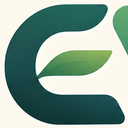
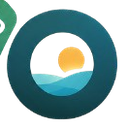
Update branding assets and refine habit journey components
Replit-Commit-Author: Agent

diff --git a/artifacts/habit-journey/src/pages/public.tsx b/artifacts/habit-journey/src/pages/public.tsx
@@ -3,7 +3,7 @@ import { ArrowLeft, Check, Coins, Map, Sparkles, Heart, ArrowUpLeft } from 'luci
 
 export function Landing() {
   return <div className="min-h-[100dvh] bg-[#f7f1e5] overflow-hidden">
-    <header className="max-w-[1240px] mx-auto px-6 md:px-10 h-20 flex items-center justify-between"><Link href="/" aria-label="رحلة العادة — الرئيسية" className="flex items-center gap-3 text-[#204a40] font-black text-xl" style={{fontFamily:'Cairo'}}><img src={`${import.meta.env.BASE_URL}evo-logo.png`} className="w-24 h-14 object-contain rounded-lg shrink-0" alt="EVO — Every Day, Evolve."/><span className="hidden sm:inline">رحلة العادة</span></Link><div className="flex items-center gap-2"><Link href="/sign-in" className="btn btn-ghost">دخول</Link><Link href="/sign-up" className="btn !py-2.5">ابدأ الرحلة <ArrowLeft size={16}/></Link></div></header>
+    <header className="max-w-[1240px] mx-auto px-6 md:px-10 h-20 flex items-center justify-between"><Link href="/" aria-label="EVO — الرئيسية" className="flex items-center gap-3 text-[#204a40] font-black text-xl" style={{fontFamily:'Cairo'}}><img src={`${import.meta.env.BASE_URL}evo-logo.png`} className="w-24 h-14 object-contain shrink-0" alt="EVO"/><span className="hidden sm:inline">EVO</span></Link><div className="flex items-center gap-2"><Link href="/sign-in" className="btn btn-ghost">دخول</Link><Link href="/sign-up" className="btn !py-2.5">ابدأ الرحلة <ArrowLeft size={16}/></Link></div></header>
     <section className="max-w-[1240px] mx-auto px-6 md:px-10 pt-14 md:pt-20 pb-20 grid lg:grid-cols-[.9fr_1.1fr] gap-12 items-center">
       <div className="page-enter relative z-10"><span className="eyebrow inline-flex items-center gap-2 mb-7"><span className="w-6 h-px bg-[#bf7857]"/> مساحتك الصغيرة للتغيير الكبير</span><h1 className="font-black text-[52px] md:text-[76px] leading-[1.23] tracking-tight max-w-[650px]">ليست قائمة مهام.<br/><span className="text-[#ce7855]">إنها رحلتك.</span></h1><p className="text-[#657b6e] text-lg md:text-xl leading-[2] max-w-[500px] mt-6 mb-9">كل عادة تزرعها، وكل يوم تحاول فيه، يترك أثرًا على الطريق. ابنِ حياة تشبهك خطوة بخطوة.</p><div className="flex flex-wrap gap-3"><Link href="/sign-up" className="btn !px-7 !py-4">ابدأ رحلتك الآن <ArrowLeft size={18}/></Link><a href="#كيف-تعمل" className="btn btn-light !px-7 !py-4">اكتشف كيف تعمل</a></div><p className="text-sm muted mt-7">مساحة خاصة لك. بلا مقارنة، بلا ضغط.</p></div>
       <div className="relative h-[470px] md:h-[570px] rounded-[32px] overflow-hidden bg-[#d5dec7] shadow-[0_30px_80px_#254f3d20]"><img src={`${import.meta.env.BASE_URL}journey-landscape.png`} alt="رسم لطريق متعرج بين الجبال" className="w-full h-full object-cover"/><div className="absolute top-8 right-8 bg-[#fff9e9ed] backdrop-blur rounded-2xl p-4 shadow-lg flex items-center gap-3"><span className="w-10 h-10 rounded-full bg-[#e9ddbc] flex items-center justify-center"><Map size={20}/></span><div><strong className="block text-sm">طريقك يبدأ هنا</strong><small className="muted">كل خطوة تُحتسب</small></div></div><div className="absolute bottom-8 left-8 bg-[#204b40] text-[#fff9e9] rounded-2xl px-5 py-4 flex items-center gap-3 shadow-xl"><Coins className="text-[#f2c77f]"/><div><b className="block">تقدّم يكافئك</b><small className="text-[#c5d9cb]">بالطريقة التي تختارها أنت</small></div></div></div>
@@ -12,6 +12,6 @@ export function Landing() {
     <section className="py-24 max-w-[1160px] mx-auto px-6 md:px-10 grid md:grid-cols-2 gap-14 items-center"><div className="paper rounded-[30px] p-8 md:p-12 rotate-[-2deg]"><div className="text-xs font-bold text-[#b47455] mb-6">رسالة من مدرّبك</div><Sparkles size={27} className="text-[#d39064] mb-6"/><p className="text-2xl md:text-3xl leading-[1.8] font-semibold">«الخطوة الصغيرة التي كررتها اليوم أهم من القفزة الكبيرة التي انتظرتها.»</p><div className="border-t border-[#e6dfcf] pt-5 mt-7 text-sm muted">صوت يشبه ما تحتاجه، لا تنبيه آخر تتجاهله.</div></div><div><div className="eyebrow">رفيق يعرف أسلوبك</div><h2 className="text-4xl md:text-5xl font-black leading-[1.5] mt-4">تشجيع يفهمك.<br/>لا كلامًا محفوظًا.</h2><p className="muted text-lg leading-[2] mt-5">اختر مدرّبًا لطيفًا، أو صريحًا يدفعك للأمام، أو محبًا للأرقام. يتبدّل صوته مع اختيارك وتقدّمك.</p></div></section>
     <section className="bg-[#e8dfca] py-24"><div className="max-w-[1160px] mx-auto px-6 md:px-10 grid md:grid-cols-2 gap-12 items-center"><div><div className="eyebrow">أكثر من سجل يومي</div><h2 className="text-4xl md:text-5xl font-black leading-[1.5] mt-4">احتفظ بلحظات<br/>الطريق أيضًا.</h2><p className="muted text-lg leading-[2] mt-5">الوقت الذي منحته لنفسك، الذكريات التي صنعتها، والأشخاص الذين يرافقونك. كل ذلك له مكان هنا.</p></div><div className="grid grid-cols-2 gap-4"><div className="paper rounded-[24px] p-6 mt-10"><Heart className="text-[#d07a58] mb-12"/><h3 className="font-bold text-xl">ذكرياتك</h3><p className="muted text-sm mt-2">صورة وكلمة تحفظان اللحظة.</p></div><div className="paper rounded-[24px] p-6"><ArrowUpLeft className="text-[#d07a58] mb-12"/><h3 className="font-bold text-xl">وقتُك</h3><p className="muted text-sm mt-2">اعرف أين تنمو ساعاتك.</p></div></div></div></section>
     <section className="text-center py-28 px-6"><span className="eyebrow">لا تنتظر اللحظة المثالية</span><h2 className="text-4xl md:text-6xl font-black mt-5 mb-5">ابدأ من حيث أنت.</h2><p className="muted text-lg mb-9">أول خطوة لا تحتاج إلا قرارًا واحدًا.</p><Link href="/sign-up" className="btn !px-9 !py-4">اصنع بداية جديدة <ArrowLeft size={18}/></Link></section>
-    <footer className="border-t border-[#ded6c5] max-w-[1160px] mx-auto px-6 py-8 flex justify-between text-sm muted"><span>رحلة العادة</span><span>كل يوم بداية ممكنة.</span></footer>
+    <footer className="border-t border-[#ded6c5] max-w-[1160px] mx-auto px-6 py-8 flex justify-between text-sm muted"><span>EVO</span><span>كل يوم بداية ممكنة.</span></footer>
   </div>;
 }

diff --git a/artifacts/habit-journey/src/components/journey-ui.tsx b/artifacts/habit-journey/src/components/journey-ui.tsx
@@ -59,14 +59,14 @@ export function Shell({user,children}: {user:User,children:ReactNode}) {
   const secondary = nav.filter(item => !mobilePrimary.has(item.href));
   return <div className="min-h-[100dvh] md:flex">
     <aside data-testid="app-sidebar" className={`hidden md:flex ${mapFirst ? 'w-[76px] px-2 py-4' : 'w-[245px] px-4 py-7'} shrink-0 bg-[#1e493f] text-[#f6ead2] min-h-[100dvh] sticky top-0 h-[100dvh] flex-col`}>
-      <Link href="/home" aria-label={mapFirst ? 'رحلة العادة — الرئيسية' : undefined} className={`flex items-center gap-3 ${mapFirst ? 'justify-center mb-5' : 'flex-col justify-center mb-6'}`}><img src={`${import.meta.env.BASE_URL}evo-logo.png`} className={`${mapFirst ? 'w-14 h-9' : 'w-24 h-14'} object-contain rounded-lg shrink-0`} alt="EVO — Every Day, Evolve."/><span className={`${mapFirst ? 'sr-only' : ''} font-black text-xl`} style={{fontFamily:'Cairo'}}>رحلة العادة</span></Link>
+      <Link href="/home" aria-label={mapFirst ? 'EVO — الرئيسية' : undefined} className={`flex items-center gap-3 ${mapFirst ? 'justify-center mb-5' : 'flex-col justify-center mb-6'}`}><img src={`${import.meta.env.BASE_URL}evo-logo.png`} className={`${mapFirst ? 'w-14 h-9' : 'w-24 h-14'} object-contain shrink-0`} alt="EVO"/><span className={`${mapFirst ? 'sr-only' : ''} font-black text-xl`} style={{fontFamily:'Cairo'}}>EVO</span></Link>
       {!mapFirst && <div className="px-4 text-[#a9c8b6] text-xs font-bold mb-3">مساحتك الخاصة</div>}
       <nav aria-label="التنقل الرئيسي" className="flex-1 min-h-0 space-y-1 overflow-y-auto">{nav.map(({href,label,icon:Icon})=><Link key={href} href={href} title={mapFirst ? label : undefined} aria-current={navActive(location,href)?'page':undefined} className={`flex items-center gap-3 ${mapFirst ? 'justify-center px-2' : 'px-4'} py-3 min-h-11 rounded-xl transition-all focus-visible:outline-2 focus-visible:outline-offset-2 ${navActive(location,href) ? 'bg-[#e2ad73] text-[#1d463b] font-bold shadow-sm' : 'text-[#d7e4d8] hover:bg-[#356052]'}`}><Icon aria-hidden="true" size={19} strokeWidth={1.8}/><span className={mapFirst ? 'sr-only' : ''}>{label}</span></Link>)}</nav>
       {!mapFirst && <div className="mt-auto px-3"><div className="border-t border-[#477266] pt-5 flex items-center gap-3"><span className="w-10 h-10 rounded-full bg-[#e4ae73] flex items-center justify-center text-xl">{user.avatarEmoji}</span><div className="min-w-0"><div className="font-bold truncate">{user.displayName}</div><div className="text-xs text-[#a9c8b6]">المستوى {user.level}</div></div></div></div>}
     </aside>
     <div className="flex-1 min-w-0">
       <header className={`${mapFirst ? 'h-16 md:h-14 px-4 md:px-6' : 'h-16 md:h-20 px-5 md:px-11'} border-b border-[#e8dfcb] flex items-center justify-between bg-[#fbf7ed]`}>
-        <div className="flex items-center gap-2 min-w-0"><img src={`${import.meta.env.BASE_URL}evo-logo.png`} className="w-14 h-8 object-contain rounded-md shrink-0 md:hidden" alt="EVO — Every Day, Evolve."/><span className="truncate text-sm font-semibold">{greeting}، {user.displayName.trim().split(/\s+/)[0]}</span></div>
+        <div className="flex items-center gap-2 min-w-0"><img src={`${import.meta.env.BASE_URL}evo-logo.png`} className="w-14 h-8 object-contain shrink-0 md:hidden" alt="EVO"/><span className="truncate text-sm font-semibold">{greeting}، {user.displayName.trim().split(/\s+/)[0]}</span></div>
         <div className="flex items-center gap-2 shrink-0"><NotificationBell/><span className="badge !bg-[#f6e5bf] hidden sm:inline-flex"><Coins aria-hidden="true" size={15}/> {user.coins} عملة</span><Link href="/character" aria-label="تخصيص شخصيتي" title="تخصيص شخصيتي" className="inline-flex items-center justify-center min-w-11 min-h-11 rounded-full bg-[#e5eadc] hover:bg-[#d5e1cc] focus-visible:outline-2 focus-visible:outline-offset-2"><Sparkles aria-hidden="true" size={20}/></Link><Link href="/settings" className="hidden md:flex items-center gap-2 text-sm font-semibold hover:opacity-70">{user.displayName}<ArrowLeft aria-hidden="true" size={14}/></Link></div>
       </header>
       <main className={mapFirst ? 'journey-shell-main h-[calc(100dvh-134px-max(8px,env(safe-area-inset-bottom)))] md:h-[calc(100dvh-56px)] min-h-0 overflow-hidden' : 'max-w-[1270px] mx-auto px-5 md:px-11 pt-8 md:pt-10 pb-28 md:pb-14 page-enter'}>{children}</main>

diff --git a/artifacts/habit-journey/src/App.tsx b/artifacts/habit-journey/src/App.tsx
@@ -87,8 +87,8 @@ function ClerkQueryClientCacheInvalidator(){
 }
 function AuthLayout({children,title}: {children:ReactNode,title:string}) {
   return <div className="min-h-[100dvh] bg-[#f2ecdc] grid lg:grid-cols-[.88fr_1.12fr]">
-    <div className="hidden lg:flex relative bg-[#214e43] text-[#fff9ed] p-14 flex-col justify-between overflow-hidden"><Link href="/" className="flex gap-3 items-center font-black text-xl" style={{fontFamily:'Cairo'}}><img src={`${basePath}/evo-logo.png`} className="w-28 h-16 object-contain rounded-lg" alt="EVO — Every Day, Evolve."/>رحلة العادة</Link><div className="relative z-10"><div className="eyebrow !text-[#e8b87e] mb-5">رحلة تبدأ من هنا</div><h2 className="text-5xl leading-[1.45] font-black max-w-lg">كل يوم تكتب سطرًا جديدًا في حكايتك.</h2><p className="text-[#c4d8ca] mt-5 leading-8">عاداتك، ذكرياتك، وخطواتك الصغيرة. كلها في مكان يشبهك.</p></div><div className="text-[#adccbb] text-sm">لا يوجد طريق واحد صحيح. فقط طريقك أنت.</div><img src={`${basePath}/journey-landscape.png`} className="absolute bottom-0 left-0 w-full h-1/2 object-cover opacity-15 pointer-events-none" alt=""/></div>
-    <div className="flex flex-col items-center justify-center p-5 md:p-10"><Link href="/" className="lg:hidden flex items-center gap-2 font-bold text-xl mb-10"><img src={`${basePath}/evo-logo.png`} className="w-24 h-14 object-contain rounded-lg" alt="EVO — Every Day, Evolve."/>رحلة العادة</Link><div className="text-center mb-6"><div className="eyebrow mb-2">مساحتك الخاصة</div><h1 className="text-3xl font-extrabold">{title}</h1></div>{children}</div>
+    <div className="hidden lg:flex relative bg-[#214e43] text-[#fff9ed] p-14 flex-col justify-between overflow-hidden"><Link href="/" className="flex gap-3 items-center font-black text-xl" style={{fontFamily:'Cairo'}}><img src={`${basePath}/evo-logo.png`} className="w-28 h-16 object-contain" alt="EVO"/>EVO</Link><div className="relative z-10"><div className="eyebrow !text-[#e8b87e] mb-5">رحلة تبدأ من هنا</div><h2 className="text-5xl leading-[1.45] font-black max-w-lg">كل يوم تكتب سطرًا جديدًا في حكايتك.</h2><p className="text-[#c4d8ca] mt-5 leading-8">عاداتك، ذكرياتك، وخطواتك الصغيرة. كلها في مكان يشبهك.</p></div><div className="text-[#adccbb] text-sm">لا يوجد طريق واحد صحيح. فقط طريقك أنت.</div><img src={`${basePath}/journey-landscape.png`} className="absolute bottom-0 left-0 w-full h-1/2 object-cover opacity-15 pointer-events-none" alt=""/></div>
+    <div className="flex flex-col items-center justify-center p-5 md:p-10"><Link href="/" className="lg:hidden flex items-center gap-2 font-bold text-xl mb-10"><img src={`${basePath}/evo-logo.png`} className="w-24 h-14 object-contain" alt="EVO"/>EVO</Link><div className="text-center mb-6"><div className="eyebrow mb-2">مساحتك الخاصة</div><h1 className="text-3xl font-extrabold">{title}</h1></div>{children}</div>
   </div>;
 }
 function SignInPage(){return <AuthLayout title="أهلًا بعودتك"><SignIn routing="path" path={`${basePath}/sign-in`} signUpUrl={`${basePath}/sign-up`} fallbackRedirectUrl={`${basePath}/home`}/></AuthLayout>}

diff --git a/artifacts/habit-journey/src/pages/profile.tsx b/artifacts/habit-journey/src/pages/profile.tsx
@@ -28,5 +28,5 @@ export function ProfileForm({user,onboarding=false}: {user:User,onboarding?:bool
     <div className="flex flex-wrap gap-3 mt-4"><button type="submit" className="btn !px-7" disabled={update.isPending}>{update.isPending?'نحفظ رحلتك...':onboarding?'لنبدأ الرحلة':'حفظ التغييرات'} <ArrowLeft size={17}/></button>{!onboarding && <button type="button" className="btn btn-light" onClick={()=>signOut({redirectUrl:import.meta.env.BASE_URL})}><LogOut size={16}/> تسجيل الخروج</button>}</div>
   </form>;
 }
-export function Onboarding({user}: {user:User}) { return <div className="min-h-[100dvh] bg-[#f4ecdb] p-5 md:p-12"><div className="max-w-[760px] mx-auto"><div className="flex items-center gap-3 mb-10"><img src={`${import.meta.env.BASE_URL}evo-logo.png`} className="w-24 h-14 object-contain rounded-lg" alt="EVO — Every Day, Evolve."/><strong className="text-xl" style={{fontFamily:'Cairo'}}>رحلة العادة</strong></div><PageHead overline="خطوتك الأولى" title="لنبدأ بالتعارف." desc="هذه مساحتك. اختر ما يجعل الرحلة أقرب إليك، ويمكنك تغيير كل شيء لاحقًا."/><ProfileForm user={user} onboarding/></div></div>; }
+export function Onboarding({user}: {user:User}) { return <div className="min-h-[100dvh] bg-[#f4ecdb] p-5 md:p-12"><div className="max-w-[760px] mx-auto"><div className="flex items-center gap-3 mb-10"><img src={`${import.meta.env.BASE_URL}evo-logo.png`} className="w-24 h-14 object-contain" alt="EVO"/><strong className="text-xl" style={{fontFamily:'Cairo'}}>EVO</strong></div><PageHead overline="خطوتك الأولى" title="لنبدأ بالتعارف." desc="هذه مساحتك. اختر ما يجعل الرحلة أقرب إليك، ويمكنك تغيير كل شيء لاحقًا."/><ProfileForm user={user} onboarding/></div></div>; }
 export function SettingsPage({user}: {user:User}) { return <><PageHead overline="مساحتك الخاصة" title="الإعدادات" desc={`مدرّبك الآن: ${styles[user.motivationStyle]}. يمكنك تغيير صوت الرحلة متى أردت.`}/><div className="max-w-[760px] mb-8"><CharacterSummary profile /></div><ProfileForm user={user}/><div className="mt-8"><SocialSettingsPanel/></div><div className="mt-8"><ConsistencyOverview settings/></div><div className="mt-8"><JourneyHistory/></div><div className="mt-6"><Link href="/memories" data-testid="link-memories" className="btn btn-light">ذكرياتي الخاصة</Link></div></>; }

diff --git a/artifacts/habit-journey/index.html b/artifacts/habit-journey/index.html
@@ -3,14 +3,14 @@
   <head>
     <meta charset="UTF-8" />
     <meta name="viewport" content="width=device-width, initial-scale=1.0, maximum-scale=1" />
-    <title>رحلة العادة — كل خطوة تصنع حكاية</title>
+    <title>EVO — Every Day, Evolve.</title>
     <meta name="description" content="مساحتك اليومية لبناء عادات تعيش معك، خطوة بخطوة." />
     <meta name="robots" content="index, follow" />
-    <meta property="og:title" content="رحلة العادة" />
+    <meta property="og:title" content="EVO — Every Day, Evolve." />
     <meta property="og:description" content="كل خطوة صغيرة تصنع حكاية أكبر." />
     <meta property="og:type" content="website" />
     <meta name="twitter:card" content="summary_large_image" />
-    <meta name="twitter:title" content="رحلة العادة" />
+    <meta name="twitter:title" content="EVO — Every Day, Evolve." />
     <meta name="twitter:description" content="كل خطوة صغيرة تصنع حكاية أكبر." />
     <link rel="icon" type="image/png" href="%BASE_URL%evo-icon.png" />
   </head>
